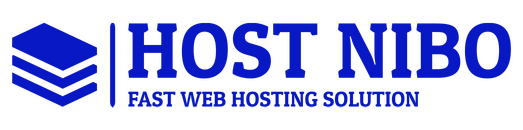
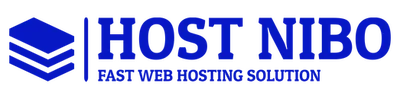
Fix: revert hero to object-fit-contain + self-center, fix refund/bg webp with alpha at optimized sizes

diff --git a/index.php b/index.php
@@ -92,7 +92,7 @@ $pricing_url = getSetting('whmcs_domain_pricing_url');
 </div>
 </div>
 <?php $hero_img = $c['image'] ?? 'images/cloud.jpg'; $hero_webp = preg_replace('/\.(jpg|jpeg|png)$/i', '.webp', $hero_img); ?>
-<div class="hidden self-center lg:block w-full max-w-[600px]"><picture style="display:block;aspect-ratio:4/3"><source srcset="<?php echo htmlspecialchars($hero_webp); ?>" type="image/webp"><img src="<?php echo htmlspecialchars($hero_img); ?>" alt="<?php echo escSetting('site_name'); ?> Hero" width="800" height="600" style="width:100%;height:100%;object-fit:cover" fetchpriority="high"></picture></div>
+<div class="hidden self-center lg:block w-full px-6"><picture style="display:block;aspect-ratio:4/3"><source srcset="<?php echo htmlspecialchars($hero_webp); ?>" type="image/webp"><img src="<?php echo htmlspecialchars($hero_img); ?>" alt="<?php echo escSetting('site_name'); ?> Hero" width="800" height="600" style="width:100%;height:100%;object-fit:contain" fetchpriority="high"></picture></div>
 </div>
 
 <?php elseif ($type === 'domain_search'): ?>
@@ -271,7 +271,7 @@ if (empty($cards)) {
 <div class="w-fit mx-auto">
 <div class="mb-12 flex flex-col gap-2">
 <?php $ref_img = $c['image'] ?? 'images/refund.png'; $ref_webp = preg_replace('/\.(jpg|jpeg|png)$/i', '.webp', $ref_img); ?>
-<picture><source srcset="<?php echo htmlspecialchars($ref_webp); ?>" type="image/webp"><img src="<?php echo htmlspecialchars($ref_img); ?>" alt="Refund Guarantee" width="500" height="500" loading="lazy"></picture>
+<picture><source srcset="<?php echo htmlspecialchars($ref_webp); ?>" type="image/webp"><img src="<?php echo htmlspecialchars($ref_img); ?>" alt="Refund Guarantee" width="350" height="350" loading="lazy"></picture>
 <h2 class="text-black text-2xl font-bold"><?php echo htmlspecialchars($c['heading'] ?? ''); ?></h2>
 <p><?php echo htmlspecialchars($c['text'] ?? ''); ?></p>
 </div>